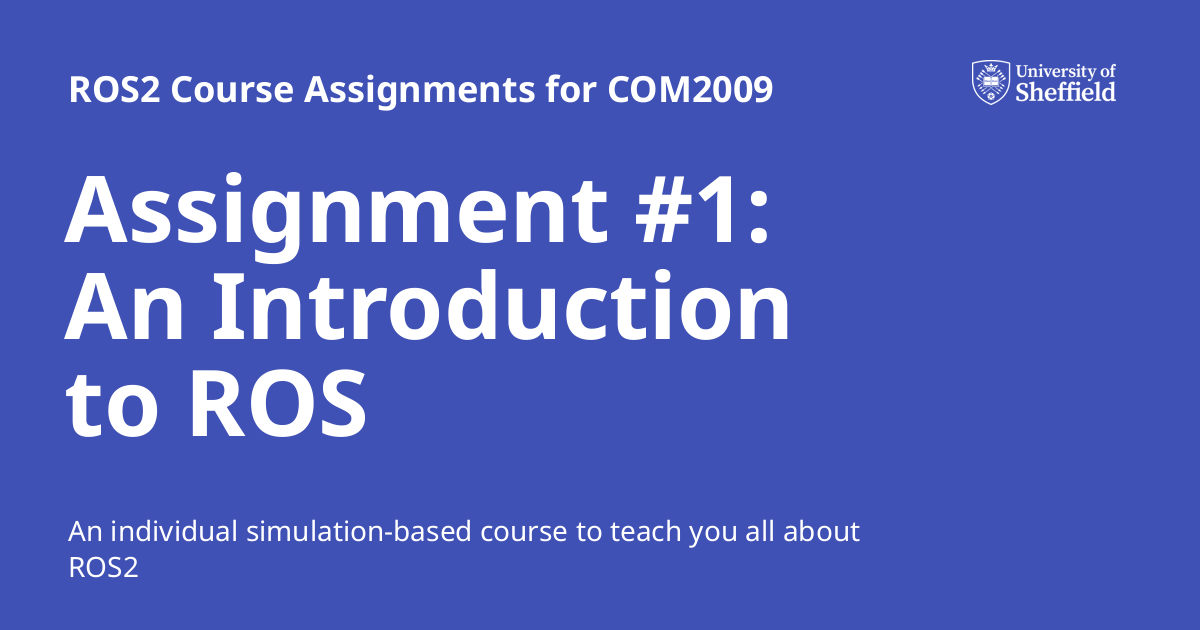
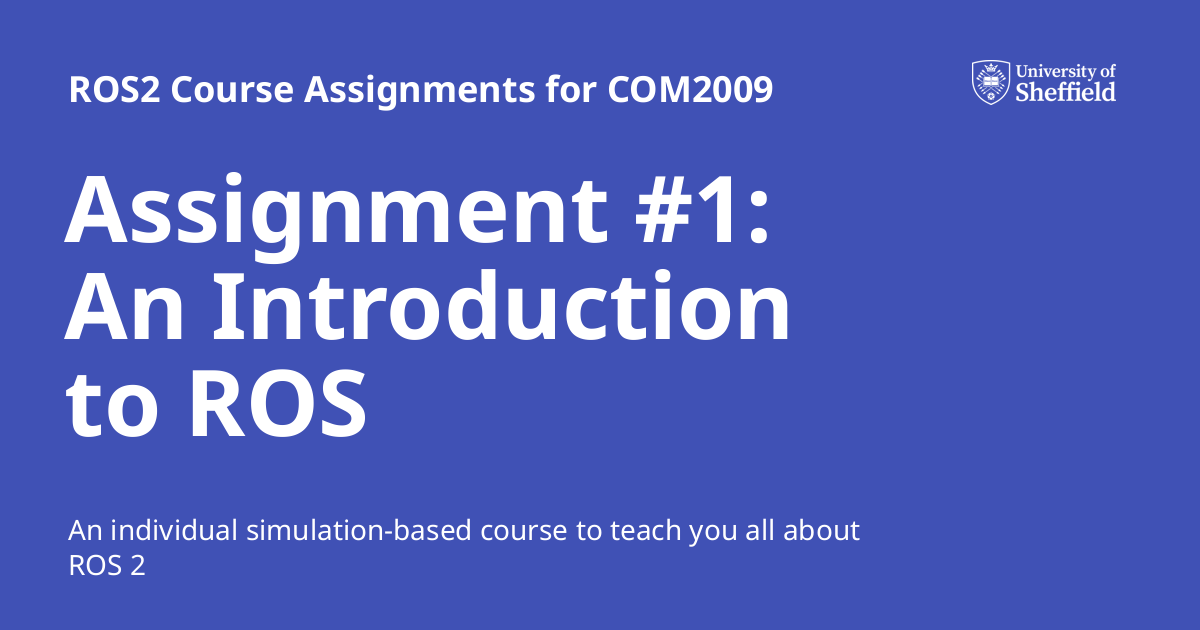
Deployed 2a7d6da with MkDocs version: 1.6.1

diff --git a/course/assignment1/index.html b/course/assignment1/index.html
@@ -6,7 +6,7 @@
       <meta charset="utf-8">
       <meta name="viewport" content="width=device-width,initial-scale=1">
       
-        <meta name="description" content="An individual simulation-based course to teach you all about ROS2">
+        <meta name="description" content="An individual simulation-based course to teach you all about ROS 2">
       
       
       
@@ -65,7 +65,7 @@
       
         <meta  property="og:title"  content="Assignment #1: An Introduction to ROS - ROS2 Course Assignments for COM2009" >
       
-        <meta  property="og:description"  content="An individual simulation-based course to teach you all about ROS2" >
+        <meta  property="og:description"  content="An individual simulation-based course to teach you all about ROS 2" >
       
         <meta  property="og:image"  content="https://tom-howard.github.io/com2009/assets/images/social/course/assignment1/README.png" >
       
@@ -81,7 +81,7 @@
       
         <meta  name="twitter:title"  content="Assignment #1: An Introduction to ROS - ROS2 Course Assignments for COM2009" >
       
-        <meta  name="twitter:description"  content="An individual simulation-based course to teach you all about ROS2" >
+        <meta  name="twitter:description"  content="An individual simulation-based course to teach you all about ROS 2" >
       
         <meta  name="twitter:image"  content="https://tom-howard.github.io/com2009/assets/images/social/course/assignment1/README.png" >
       
@@ -1957,7 +1957,7 @@
     <span class="md-icon" title="Last update">
       <svg xmlns="http://www.w3.org/2000/svg" viewBox="0 0 24 24"><path d="M21 13.1c-.1 0-.3.1-.4.2l-1 1 2.1 2.1 1-1c.2-.2.2-.6 0-.8l-1.3-1.3c-.1-.1-.2-.2-.4-.2m-1.9 1.8-6.1 6V23h2.1l6.1-6.1zM12.5 7v5.2l4 2.4-1 1L11 13V7zM11 21.9c-5.1-.5-9-4.8-9-9.9C2 6.5 6.5 2 12 2c5.3 0 9.6 4.1 10 9.3-.3-.1-.6-.2-1-.2s-.7.1-1 .2C19.6 7.2 16.2 4 12 4c-4.4 0-8 3.6-8 8 0 4.1 3.1 7.5 7.1 7.9l-.1.2z"/></svg>
     </span>
-    <span class="git-revision-date-localized-plugin git-revision-date-localized-plugin-timeago"><span class="timeago" datetime="2025-02-14T14:38:33+00:00" locale="en"></span></span><span class="git-revision-date-localized-plugin git-revision-date-localized-plugin-iso_date">2025-02-14</span>
+    <span class="git-revision-date-localized-plugin git-revision-date-localized-plugin-timeago"><span class="timeago" datetime="2025-02-14T14:39:08+00:00" locale="en"></span></span><span class="git-revision-date-localized-plugin git-revision-date-localized-plugin-iso_date">2025-02-14</span>
   </span>
 
     
